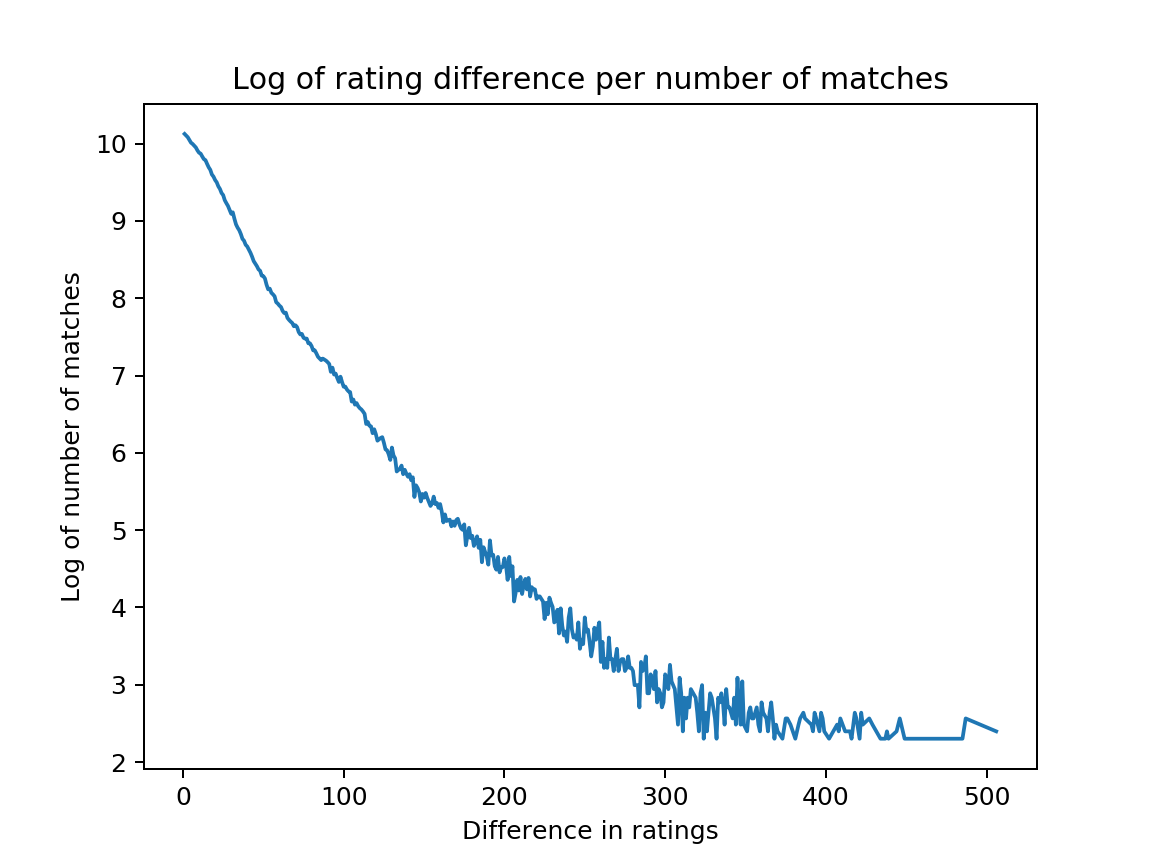
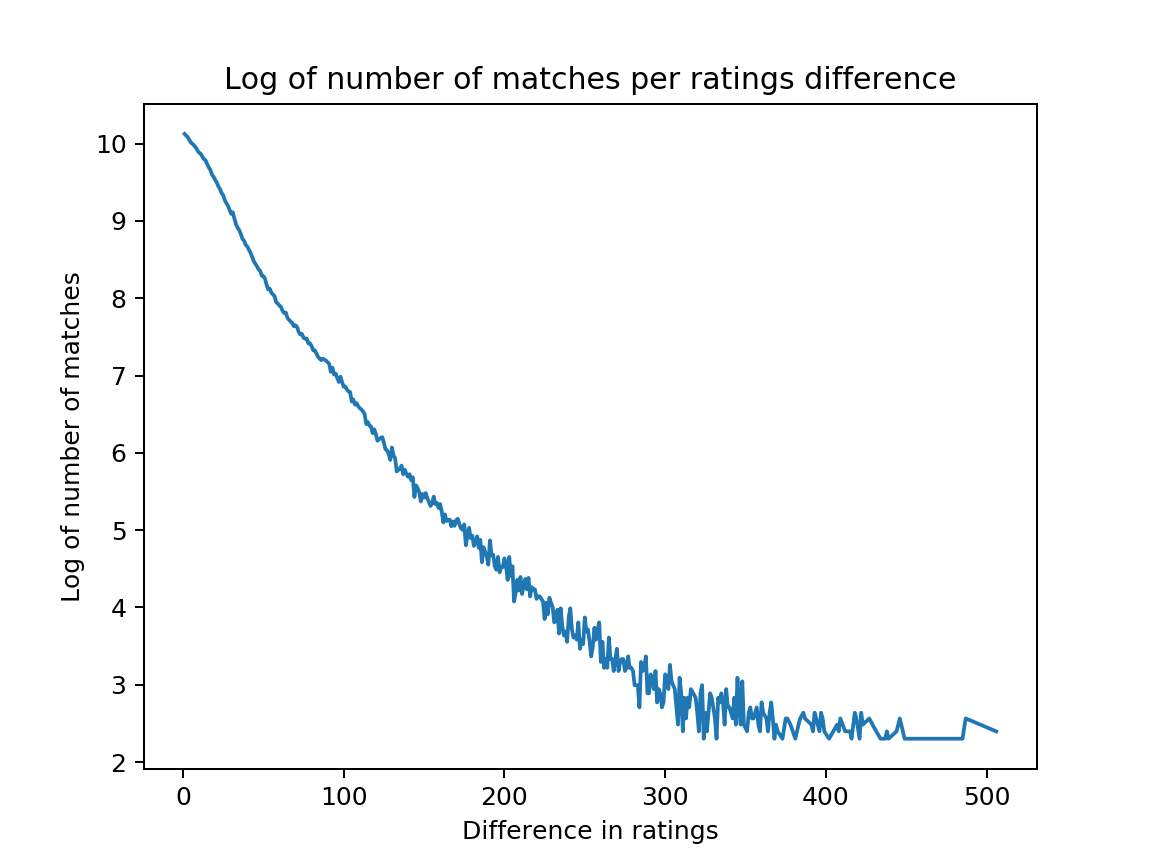
Update ratings distrubution graph titles

Changed region(s): [[0.1875, 0.0625, 0.8438, 0.125]]

diff --git a/elo/index.html b/elo/index.html
@@ -45,7 +45,7 @@
 
 <img src="../graphs/win_by_rating.png"/>
 
-<p>As we can see from the graph, the confidence interval increases as the difference in rating increases. This is because the matchmaking algorithm attempts to match players of similar levels. The figures <b>Rating difference per number of matches</b> and <b>Log of rating difference per number of matches</b> (generated <a href="https://github.com/porcpine1967/aoe2_comparisons/blob/6a40de15885597d7eb2784c39c23b88af800882e/elo/graphs.py#L75">thus</a>) show the distribution of ratings differences, which is exponential (r score of log is -0.95 for both model and verification data sets computed <a href="https://github.com/porcpine1967/aoe2_comparisons/blob/6a40de15885597d7eb2784c39c23b88af800882e/elo/calculations.py#L68">as above</a>). Note: for legibility, only rating differences greater than 10 are shown.</p>
+<p>As we can see from the graph, the confidence interval increases as the difference in rating increases. This is because the matchmaking algorithm attempts to match players of similar levels. The figures <b>Number of matches per rating difference</b> and <b>Log of number of matches per rating difference</b> (generated <a href="https://github.com/porcpine1967/aoe2_comparisons/blob/6a40de15885597d7eb2784c39c23b88af800882e/elo/graphs.py#L75">thus</a>) show the distribution of ratings differences, which is exponential (r score of log is -0.95 for both model and verification data sets computed <a href="https://github.com/porcpine1967/aoe2_comparisons/blob/6a40de15885597d7eb2784c39c23b88af800882e/elo/calculations.py#L68">as above</a>). Note: for legibility, only rating differences greater than 10 are shown.</p>
 
 <img src="../graphs/rating_distribution.png"/>
 <img src="../graphs/log_rating_distribution.png"/>

diff --git a/elo/graphs.py b/elo/graphs.py
@@ -86,13 +86,13 @@ def ratings_distributions():
         ys.append(ctr[x])
         log_ys.append(log(ctr[x]))
     plt.figure(1)
-    plt.title('Rating difference per number of matches')
+    plt.title('Number of matches per ratings difference')
     plt.xlabel('Difference in ratings')
     plt.ylabel('Number of matches')
     plt.plot(xs, ys)
     plt.savefig('{}/rating_distribution.png'.format(GRAPH_DIR), dpi=180)
     plt.figure(2)
-    plt.title('Log of rating difference per number of matches')
+    plt.title('Log of number of matches per ratings difference')
     plt.xlabel('Difference in ratings')
     plt.ylabel('Log of number of matches')
     plt.plot(xs, log_ys)
